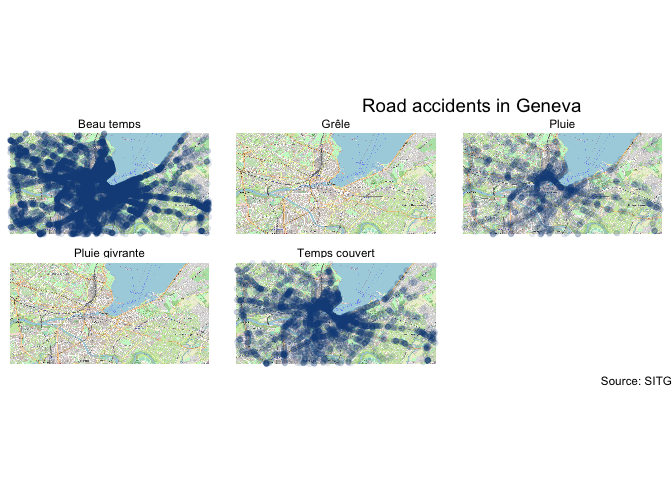
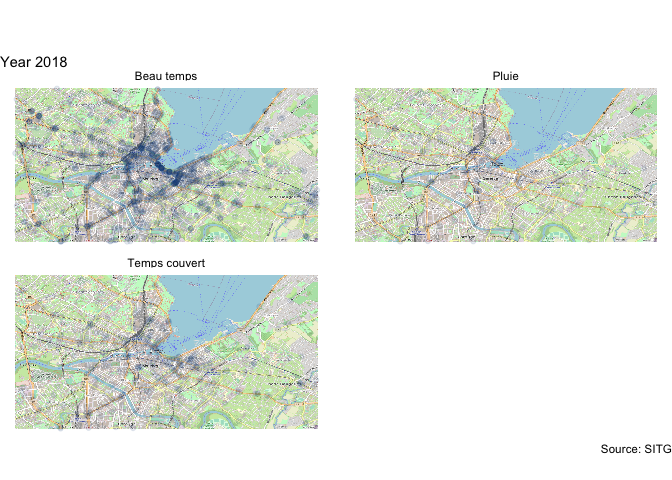
Updated

diff --git a/Mobility and Transportation/Road accidents Geneva/car_accident.md b/Mobility and Transportation/Road accidents Geneva/car_accident.md
@@ -4,8 +4,8 @@ Selim Ach
 10/15/2020
 
 The data that is analyzed in this report is related to road accidents
-occuring in Geneva. These type of data are usually presented in a table,
-but there are better ways, such as using maps.
+occurring in Geneva. These type of data are usually presented in a
+table, but there are better ways, such as using maps.
 
 <table>
 
@@ -473,15 +473,23 @@ Beau temps
 
 </table>
 
-Since the information on longitude and lattitude is available, it is
+Since the information on longitude and latitude is available, it is
 possible to plot on a graph the exact location of each accident.
 
 ![](car_accident_files/figure-gfm/unnamed-chunk-2-1.png)<!-- -->
 
-![](car_accident_files/figure-gfm/unnamed-chunk-3-1.png)<!-- --> An
-extra layer with Geneva map is added on top of the location.
+![](car_accident_files/figure-gfm/unnamed-chunk-3-1.png)<!-- -->
+
+An extra layer with Geneva map is added on top of the location.
 
 ![](car_accident_files/figure-gfm/unnamed-chunk-4-1.png)<!-- -->
 
-This map shows the location of all car accidents in Geneva. But are
-there more accidents during a rainy day ? The answer is in the chart \!
+These set of maps show the location of road accidents in Geneva during
+the year 2018. But are there more accidents during a rainy day ?
+Surprisingly the data indicates that accidents are occurring during
+sunny days.
+
+But let’s look at the number of accidents per year by developing a set
+of maps that will display accidents by year since 2015.
+
+![](car_accident_files/figure-gfm/unnamed-chunk-5-1.png)<!-- -->
